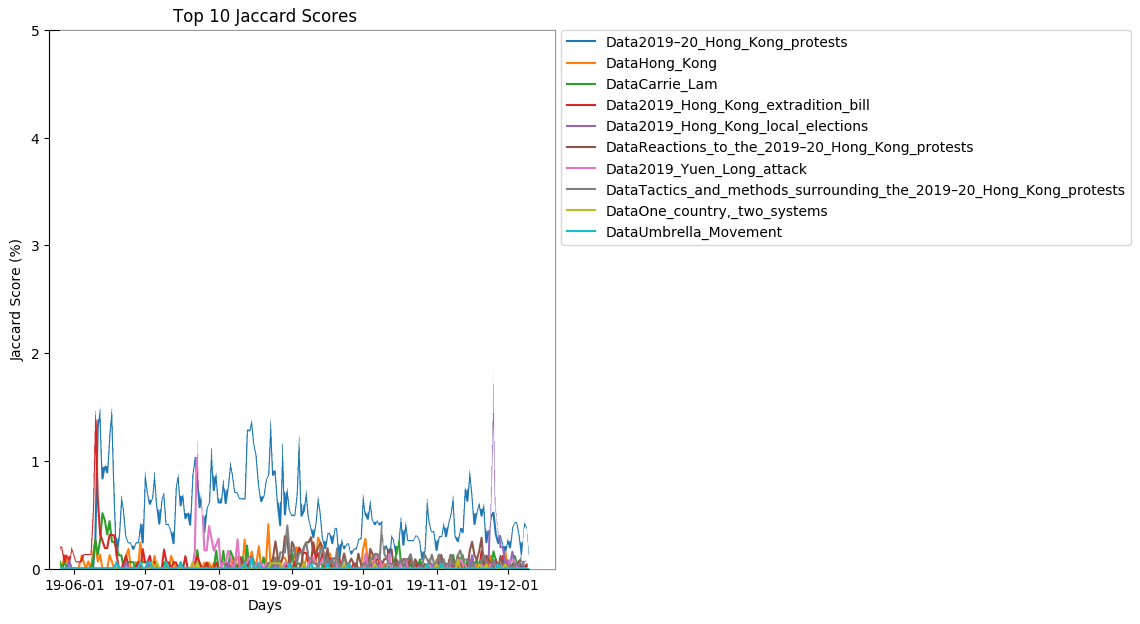
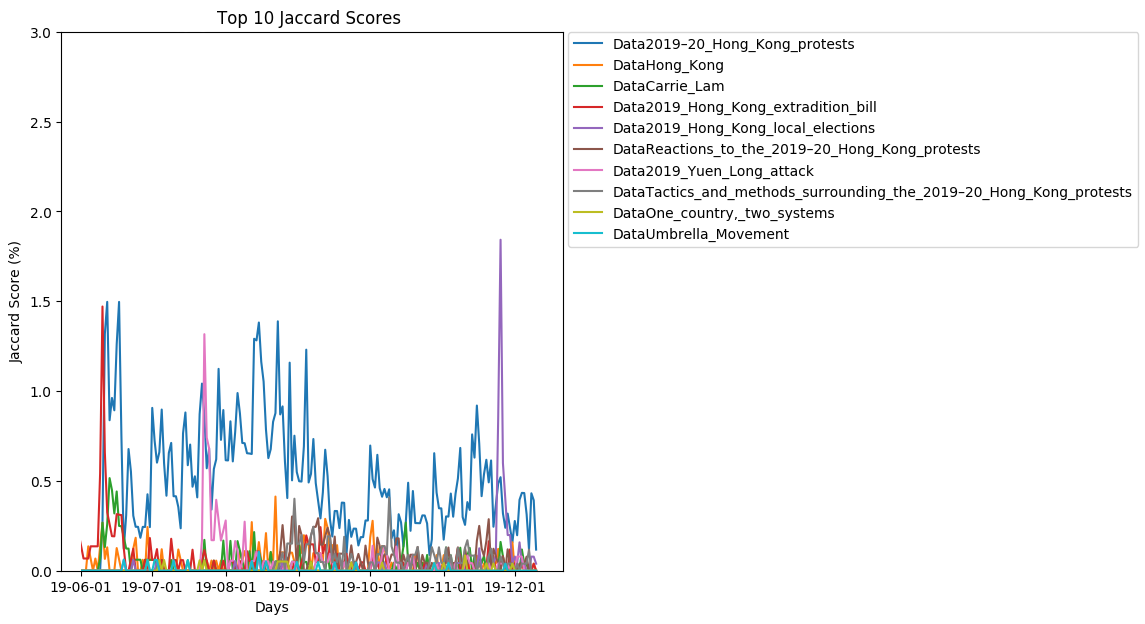
updated y axis limit of top 10 jaccard scores

diff --git a/jaccard.py b/jaccard.py
@@ -95,7 +95,7 @@ def makeTop10Figures():
         data = top10Helper(title)
         plt.plot(data[0], data[1],label= title)
         plt.gcf().set_size_inches(15,7)
-    plt.ylim([0, 5])
+    plt.ylim([0, 3])
 
     figureTitle = "Top 10 Jaccard Scores"
     plt.title(figureTitle)
